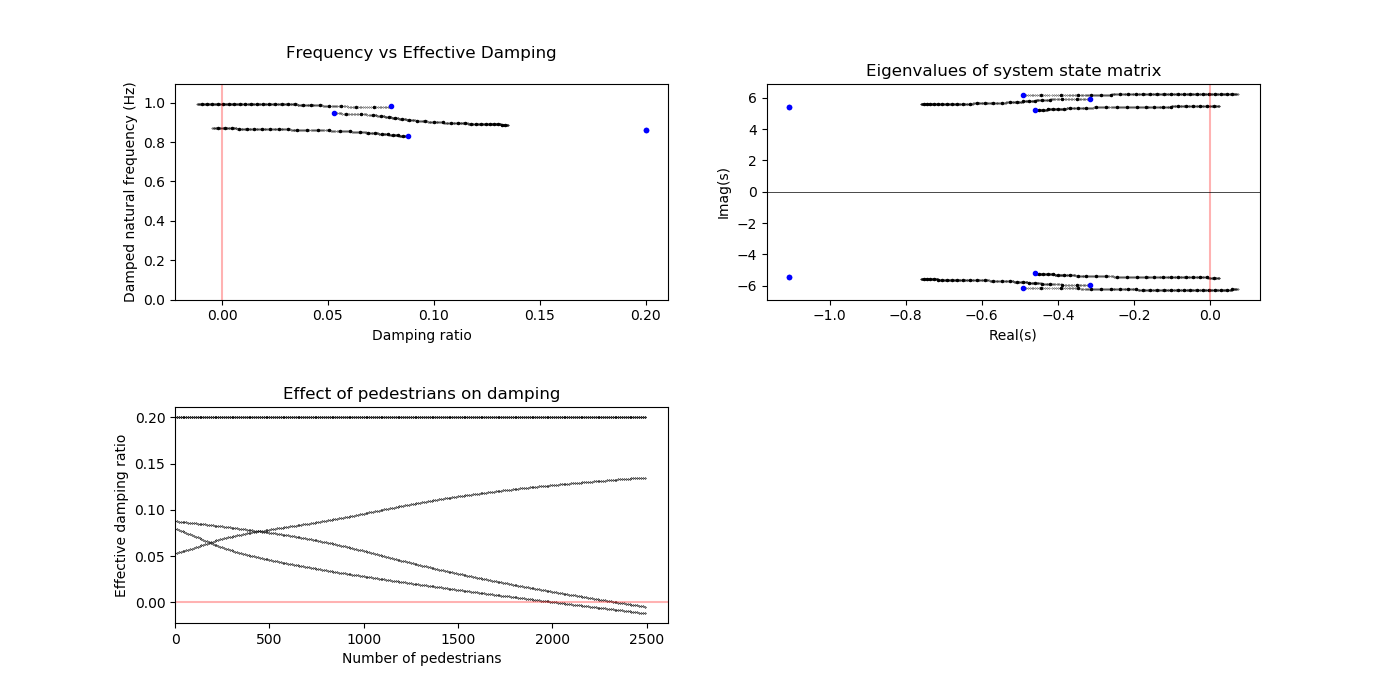
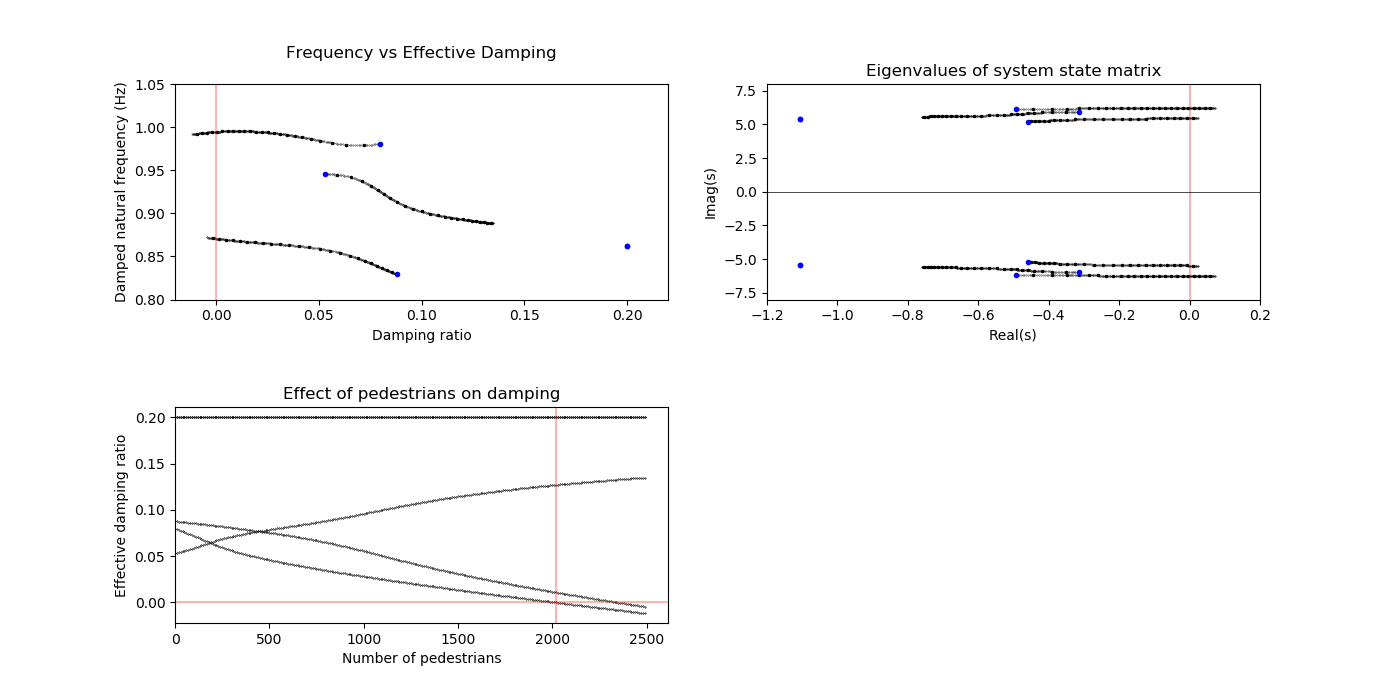
Updates to LatSync_McRobie class

diff --git a/dynsys/ped_dyn.py b/dynsys/ped_dyn.py
@@ -1554,6 +1554,8 @@ class LatSync_McRobie():
           effective damping) varies with pedestrian numbers
          
         """
+        
+        print("Running lat sync eigenvalues analysis...")
     
         # Run analysis for various pedestrian numbers, as provided to function
         
@@ -1582,6 +1584,8 @@ class LatSync_McRobie():
             fd_vals.append(eig_props["f_d"])
             X_vals.append(eig_props["X"])
             
+        print("Analysis complete!")
+            
         # Restore with original bridge-only damping matrix
         modalsys._C_mtrx = C_p0
         
@@ -1592,7 +1596,11 @@ class LatSync_McRobie():
         self.eigenvectors = X_vals
         self.N_pedestrians = Np_vals
         
-        return s_vals
+        # Calculate critical number of pedestrians for onset on instability
+        Np_crit = self.calc_Np_crit()
+        self.Np_crit = Np_crit
+        
+        return Np_crit
     
     
     def plot_results(self):
@@ -1692,6 +1700,49 @@ class LatSync_McRobie():
         ax.set_ylabel("Effective damping ratio")
         ax.set_title("Effect of pedestrians on damping")
         
+        attr = "Np_crit"
+        if hasattr(self,attr):
+            Np_crit = getattr(self,attr)
+            ax.axvline(x=Np_crit,color='r',alpha=0.3)
+        
+    def calc_Np_crit(self,verbose=True):
+        """
+        Calculates from results the critical number of pedestrians for the 
+        onset of pedestrian-induced lateral instability
+        """
+        
+        print("Determining critical number of pedestrians " + 
+              "for onset on instability...")
+        
+        # Check that analysis has been run
+        if not hasattr(self,"N_pedestrians"):
+            raise ValueError("Analysis does not appear to have been run!" + 
+                             "Cannot calculate Np_crit")
+        else:
+            Np_vals = self.N_pedestrians
+                        
+        # Check that analysis has been run up to pedestrian numbers such that 
+        # the net effective damping in (at least) one mode has become <0.0
+        damping_ratios = numpy.array(self.damping_ratios)
+        
+        min_damping = numpy.min(damping_ratios)
+        if min_damping > 0.0:
+            raise ValueError("Analysis has not identified net damping < 0\n" + 
+                             "Extend range of `Np_vals` to larger numbers")
+            
+        # Determine minumum damping ratio across all modes for each Np value
+        min_damping = numpy.min(damping_ratios,axis=1)
+        
+        # Define interpolation function
+        Np_func = scipy.interpolate.interp1d(x=Np_vals, y=min_damping)
+                                      
+        # Use root finding function to obtain Np such that damping = 0.0
+        Np_crit = scipy.optimize.bisect(f=Np_func,a=Np_vals[0],b=Np_vals[-1])
+            
+        if verbose:
+            print("Np_crit: %.0f" % Np_crit)
+        
+        return Np_crit
 
     
 # ************* PRIVATE CLASSES (only to be used within module) *************    

diff --git a/validation/McRobie Lateral synchronisation/LatSync.py b/validation/McRobie Lateral synchronisation/LatSync.py
@@ -44,13 +44,13 @@ fig.savefig('modeshapes.png')
 
 # Define and run lat sync analysis
 latsync_analysis = ped_dyn.LatSync_McRobie(bridge_sys)
-latsync_analysis.run(Np_vals=numpy.arange(0,2500,10))
+N_crit = latsync_analysis.run(Np_vals=numpy.arange(0,2500,10))
 
 #%%
 
 # Plot results
 fig = latsync_analysis.plot_results()
-fig.savefig('results_plots.png')
+
 
 #%%
 
@@ -65,4 +65,6 @@ ax.set_ylim([0.8,1.05])     # per McRobie paper
 ax=ax_list[1]
 ax.set_xlim([-1.2,+0.2])    # per McRobie paper
 ax.set_ylim([-8.0,+8.0])    # per McRobie paper
+
+fig.savefig('results_plots.png')
 
